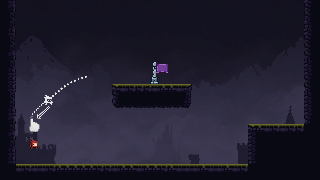
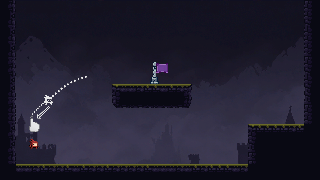
Add fixed viewport configuration to game scope

diff --git a/Assets/_Game/Scripts/Infrastructure/FixedViewport/FixedViewportController.cs b/Assets/_Game/Scripts/Infrastructure/FixedViewport/FixedViewportController.cs
@@ -1,0 +1,143 @@
+using System;
+using Playtika.Controllers;
+using Sling.Common.Extensions;
+using UnityEngine;
+using UnityEngine.Rendering.Universal;
+using UnityEngine.SceneManagement;
+using Object = UnityEngine.Object;
+
+namespace Sling.Infrastructure.FixedViewport
+{
+  public class FixedViewportController : ControllerBase
+  {
+    private const string _kKBackgroundCameraName = "FixedViewport Background Camera";
+    private const float _kKBackgroundCameraDepth = -100f;
+
+    private readonly FixedViewportConfig _config;
+    private readonly UpdateEvents _updateEvents;
+
+    private GameObject _backgroundCameraObject;
+    private Camera _backgroundCamera;
+    private int _screenWidth = -1;
+    private int _screenHeight = -1;
+
+    public FixedViewportController(
+      IControllerFactory controllerFactory,
+      FixedViewportConfig config,
+      UpdateEvents updateEvents)
+      : base(controllerFactory)
+    {
+      _config = config;
+      _updateEvents = updateEvents;
+    }
+
+    protected override void OnStart()
+    {
+      ValidateConfig();
+      CreateBackgroundCamera();
+
+      SceneManager.sceneLoaded += OnSceneLoaded;
+      this.AddDisposableAction(() => SceneManager.sceneLoaded -= OnSceneLoaded);
+
+      _updateEvents.OnUpdate += OnUpdate;
+      this.AddDisposableAction(() => _updateEvents.OnUpdate -= OnUpdate);
+
+      Refresh(force: true);
+    }
+
+    private void ValidateConfig()
+    {
+      Vector2Int referenceAspectRatio = _config.ReferenceAspectRatio;
+      if (referenceAspectRatio.x <= 0 || referenceAspectRatio.y <= 0)
+      {
+        throw new ArgumentOutOfRangeException(
+          nameof(_config.ReferenceAspectRatio),
+          referenceAspectRatio,
+          "Reference aspect ratio dimensions must be greater than zero.");
+      }
+    }
+
+    private void CreateBackgroundCamera()
+    {
+      _backgroundCameraObject = new GameObject(_kKBackgroundCameraName);
+      Object.DontDestroyOnLoad(_backgroundCameraObject);
+      this.AddDisposableAction(DestroyBackgroundCamera);
+
+      _backgroundCamera = _backgroundCameraObject.AddComponent<Camera>();
+      _backgroundCamera.clearFlags = CameraClearFlags.SolidColor;
+      _backgroundCamera.backgroundColor = _config.BarsColor;
+      _backgroundCamera.cullingMask = 0;
+      _backgroundCamera.depth = _kKBackgroundCameraDepth;
+      _backgroundCamera.rect = new Rect(0f, 0f, 1f, 1f);
+      _backgroundCamera.allowHDR = false;
+      _backgroundCamera.allowMSAA = false;
+      _backgroundCamera.allowDynamicResolution = false;
+      _backgroundCamera.useOcclusionCulling = false;
+
+      UniversalAdditionalCameraData cameraData =
+        _backgroundCameraObject.AddComponent<UniversalAdditionalCameraData>();
+      cameraData.renderType = CameraRenderType.Base;
+      cameraData.renderShadows = false;
+      cameraData.requiresDepthOption = CameraOverrideOption.Off;
+      cameraData.requiresColorOption = CameraOverrideOption.Off;
+      cameraData.renderPostProcessing = false;
+    }
+
+    private void OnUpdate()
+    {
+      if (_screenWidth == Screen.width && _screenHeight == Screen.height)
+        return;
+
+      Refresh(force: false);
+    }
+
+    private void OnSceneLoaded(Scene scene, LoadSceneMode mode) =>
+      Refresh(force: true);
+
+    private void Refresh(bool force)
+    {
+      if (Screen.width <= 0 || Screen.height <= 0)
+        return;
+
+      if (!force && _screenWidth == Screen.width && _screenHeight == Screen.height)
+        return;
+
+      Camera worldCamera = Camera.main;
+      if (!worldCamera)
+        return;
+
+      _screenWidth = Screen.width;
+      _screenHeight = Screen.height;
+      worldCamera.rect = CalculateViewport(_screenWidth, _screenHeight);
+    }
+
+    private Rect CalculateViewport(int screenWidth, int screenHeight)
+    {
+      float targetAspect =
+        (float)_config.ReferenceAspectRatio.x / _config.ReferenceAspectRatio.y;
+      float screenAspect = (float)screenWidth / screenHeight;
+
+      if (screenAspect > targetAspect)
+      {
+        float width = targetAspect / screenAspect;
+        return new Rect((1f - width) * 0.5f, 0f, width, 1f);
+      }
+
+      float height = screenAspect / targetAspect;
+      return new Rect(0f, (1f - height) * 0.5f, 1f, height);
+    }
+
+    private void DestroyBackgroundCamera()
+    {
+      Camera worldCamera = Camera.main;
+      if (worldCamera)
+        worldCamera.rect = new Rect(0f, 0f, 1f, 1f);
+
+      if (_backgroundCameraObject)
+        Object.Destroy(_backgroundCameraObject);
+
+      _backgroundCamera = null;
+      _backgroundCameraObject = null;
+    }
+  }
+}

diff --git a/Assets/_Game/Scripts/Infrastructure/FixedViewport/FixedViewportConfig.cs b/Assets/_Game/Scripts/Infrastructure/FixedViewport/FixedViewportConfig.cs
@@ -1,0 +1,12 @@
+using System;
+using UnityEngine;
+
+namespace Sling.Infrastructure.FixedViewport
+{
+  [Serializable]
+  public class FixedViewportConfig
+  {
+    public Vector2Int ReferenceAspectRatio = new(16, 9);
+    public Color BarsColor = Color.black;
+  }
+}

diff --git a/Assets/_Game/Scripts/GameScopeController.cs b/Assets/_Game/Scripts/GameScopeController.cs
@@ -5,6 +5,7 @@ using Sling.Common.Views;
 using Sling.Flow;
 using Sling.Infrastructure;
 using Sling.Infrastructure.Analytics;
+using Sling.Infrastructure.FixedViewport;
 using Sling.Infrastructure.Progress;
 using Sling.Level;
 using Sling.LevelLoading;
@@ -42,6 +43,9 @@ namespace Sling
 
       builder.Register<UpdateEvents>(Lifetime.Singleton);
       builder.Register<UpdateController>(Lifetime.Transient);
+
+      builder.RegisterInstance(_gameConfig.FixedViewport);
+      builder.Register<FixedViewportController>(Lifetime.Transient);
 
       builder.RegisterInstance(_gameConfig.AudioConfig);
       builder.Register<AudioEvents>(Lifetime.Singleton);

diff --git a/Assets/_Game/Scripts/GameConfig.cs b/Assets/_Game/Scripts/GameConfig.cs
@@ -1,6 +1,7 @@
 using System.Collections.Generic;
 using Sling.Audio;
 using Sling.Common.Scenes;
+using Sling.Infrastructure.FixedViewport;
 using Sling.Levels;
 using UnityEngine;
 using UnityEngine.UIElements;
@@ -11,6 +12,7 @@ namespace Sling
   public class GameConfig : ScriptableObject
   {
     public AudioConfig AudioConfig;
+    public FixedViewportConfig FixedViewport = new();
     
     public SceneReference MainMenuScene;
     public List<LevelConfig> Levels = new();

diff --git a/Assets/_Game/Scripts/GameLoopController.cs b/Assets/_Game/Scripts/GameLoopController.cs
@@ -4,6 +4,7 @@ using Sling.Audio;
 using Sling.Flow;
 using Sling.Infrastructure;
 using Sling.Infrastructure.Analytics;
+using Sling.Infrastructure.FixedViewport;
 using Sling.Infrastructure.Progress;
 
 namespace Sling
@@ -29,6 +30,7 @@ namespace Sling
     private async UniTask GameLoopAsync()
     {
       Execute<UpdateController>();
+      Execute<FixedViewportController>();
       Execute<AudioController>();
       Execute<AnalyticsController>();
       _playerProgressService.Load();